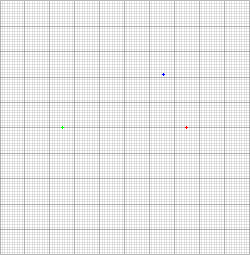
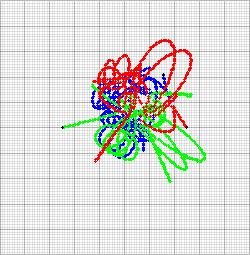
finish

Changed region(s): [[0.252, 0.1373, 0.84, 0.6863], [0.728, 0.2745, 0.756, 0.3294], [0.672, 0.6863, 0.7, 0.7137]]

diff --git a/src/main.rs b/src/main.rs
@@ -30,11 +30,11 @@ struct Step {
     bodies: [Body; 3],
 }
 const TIME_STEP: f64 = 0.01;
-const STEPS: usize = 100000;
+const STEPS: u32 = 100000000;
 const GRAVITATIONAL_CONSTANT: f64 = 6.67430e-11; // G
 
-const ANIMATION_LENGTH: i32 = 60; // total seconds
-const ANIMATION_FPS: i32 = 60; // fps
+const ANIMATION_LENGTH: u32 = 30; // total seconds
+const ANIMATION_FPS: u32 = 40; // fps
 fn main() {
     let mut first = Body::new(Position {
         x: 0.3089693008,
@@ -43,7 +43,7 @@ fn main() {
     let mut second = Body::new(Position { x: -0.5, y: 0.0 });
     let mut third = Body::new(Position { x: 0.5, y: 0.0 });
 
-    let mut steps = Vec::<Step>::with_capacity(STEPS);
+    let mut steps = Vec::<Step>::with_capacity(STEPS as usize);
 
     for n in 0..STEPS {
         let mut new_step = Step {
@@ -75,7 +75,7 @@ fn main() {
                 }
             }
         }
-        // 更新位移
+        // 更新3个行星的位移
         for k in 0..3 {
             new_step.bodies[k].position.x += new_step.bodies[k].velocity.0 * TIME_STEP;
             new_step.bodies[k].position.y += new_step.bodies[k].velocity.1 * TIME_STEP;
@@ -84,24 +84,26 @@ fn main() {
         second = new_step.bodies[1].clone();
         third = new_step.bodies[2].clone();
 
-        if n % 1000 == 0 {
-            println!(
-                "Finished step {} ({:.08}, {:.08})",
-                n, first.position.x, first.position.y
-            );
-        }
+        // if n % (STEPS / (ANIMATION_LENGTH * ANIMATION_FPS)) == 0 {
+        //     println!(
+        //         "Finished step {} ({:.08}, {:.08})",
+        //         n, first.position.x, first.position.y
+        //     );
+        // }
 
-        if n % (STEPS / (ANIMATION_LENGTH * ANIMATION_FPS) as usize) == 0 {
+        if n % (STEPS / (ANIMATION_LENGTH * ANIMATION_FPS)) == 0 {
             steps.push(new_step);
         }
     }
 
     println!(
         "Finished simulating {} steps. Generating visualization...",
-        STEPS
+        STEPS,
     );
-
+    // 轨迹图
     graph_steps(&steps);
+    // 动图
+    animation_steps(&steps);
 }
 
 fn graph_steps(steps: &[Step]) {
@@ -152,4 +154,50 @@ fn graph_steps(steps: &[Step]) {
             .unwrap();
     }
     area.present().unwrap();
+}
+
+fn animation_steps(steps: &[Step]) {
+    println!("Generating animation...");
+
+    let area = BitMapBackend::gif("three_body.gif", (250, 250), 1)
+        .unwrap()
+        .into_drawing_area();
+
+    let mut chart = ChartBuilder::on(&area)
+        .build_cartesian_2d(-100..100, -100..100)
+        .unwrap();
+
+    for step in steps {
+        // println!("Rendering frame {}", step.step);
+        area.fill(&WHITE).unwrap();
+        chart.configure_mesh().draw().unwrap();
+
+        for i in 0..3 {
+            let color = match i {
+                0 => BLUE,
+                1 => GREEN,
+                2 => RED,
+                _ => BLACK,
+            };
+            chart
+                .draw_series([step.clone()].iter().map(|step| {
+                    Circle::new(
+                        (
+                            (step.bodies[i].position.x * 100.0).round() as i32,
+                            (step.bodies[i].position.y * 100.0).round() as i32,
+                        ),
+                        2,
+                        color.filled(),
+                    )
+                }))
+                .unwrap();
+        }
+        area.draw(&Text::new(
+            format!("T : {}", step.time.round() as u32),
+            (5, 5),
+            ("sans-serif", 12),
+        ))
+        .unwrap();
+        area.present().unwrap();
+    }
 }
